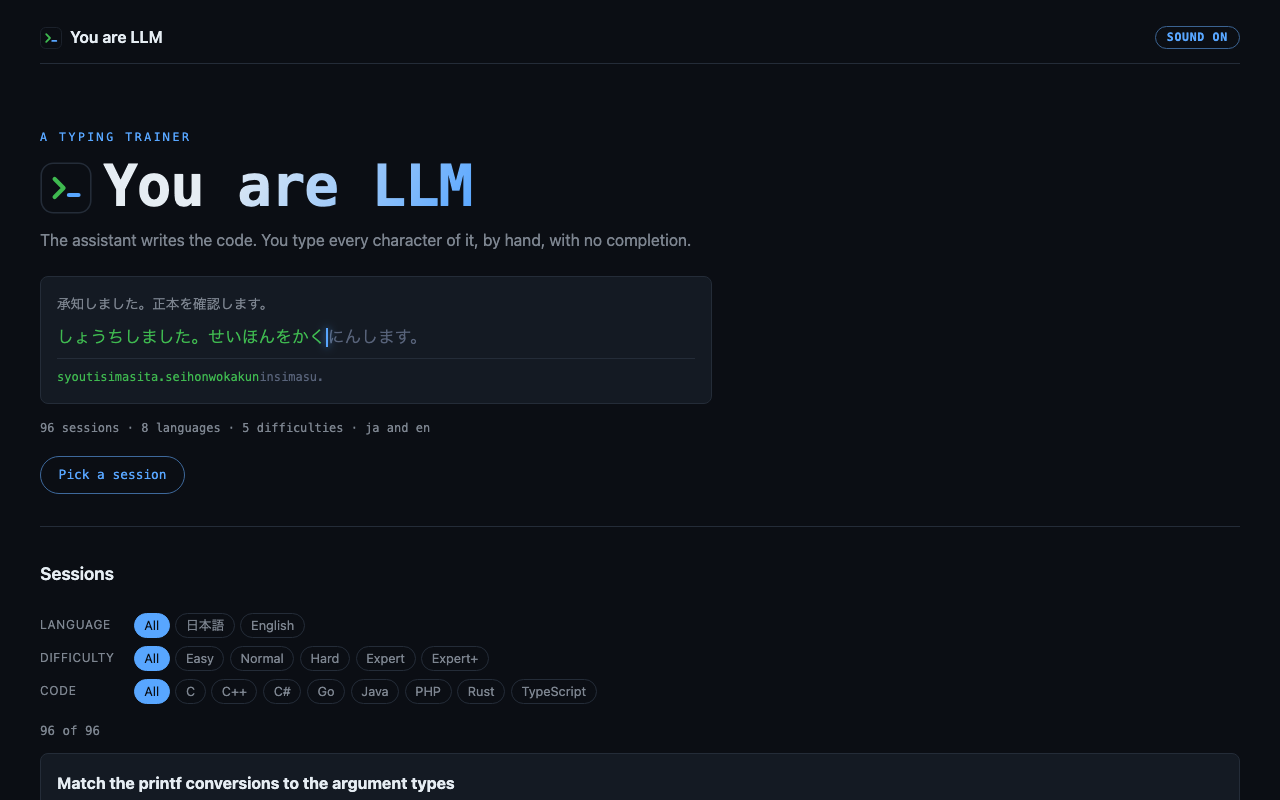
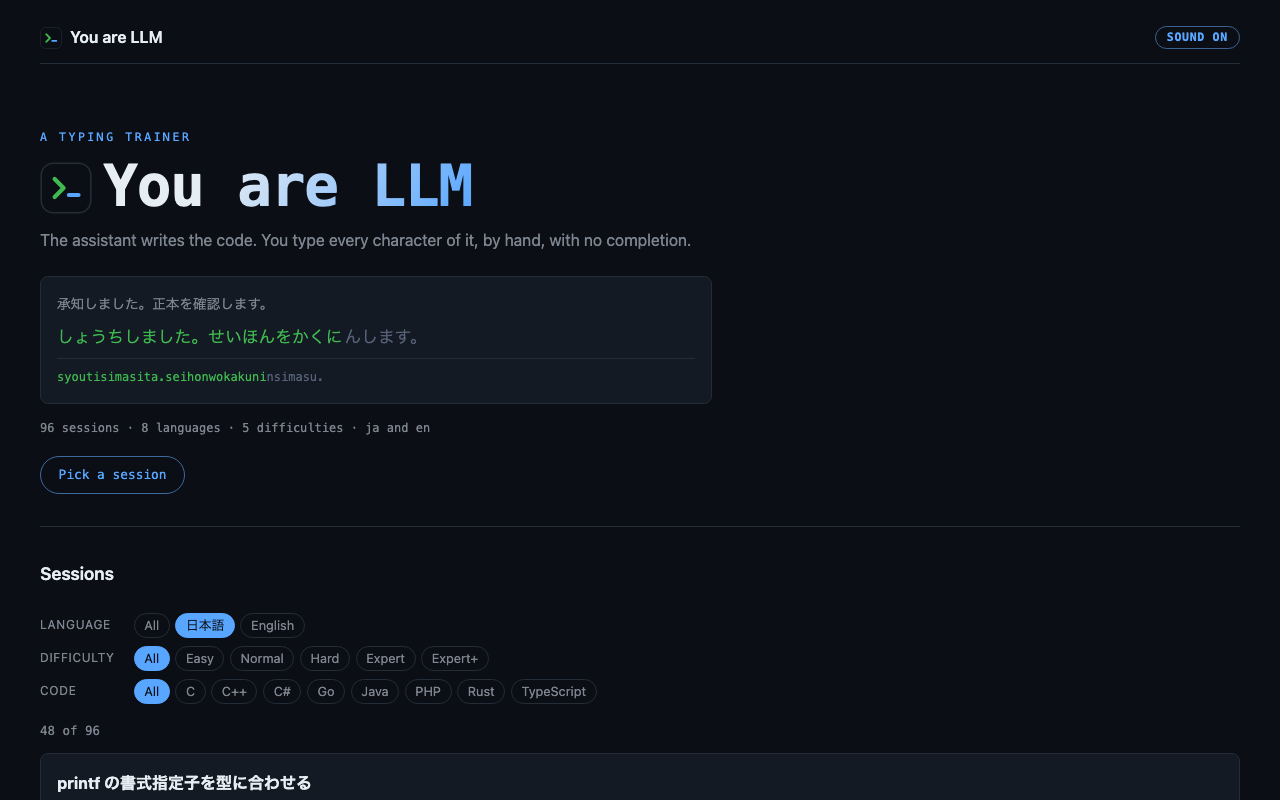
Open the list on Japanese
Most of the material is Japanese, and most of the people it is for read it, so
the list now starts there rather than showing everything twice over.

Showing both is a choice, so `All` says so in the address. An empty search is
Japanese, which keeps the plain link the useful one.

The filtering moved out of the route while it was being changed, into
`src/materials/filters.ts` where it can be tested. It is.

Claude-Session: https://claude.ai/code/session_01A8jaHEoZZhxCKJa5Ei99bX

Changed region(s): [[0.0312, 0.9688, 0.375, 1.0], [0.0938, 0.75, 0.1875, 0.8125], [0.25, 0.4062, 0.2812, 0.4375]]

diff --git a/src/routes/index.tsx b/src/routes/index.tsx
@@ -1,48 +1,16 @@
 import { Link, createFileRoute } from '@tanstack/react-router'
-import type { CodeLanguage, Difficulty, Language, Session } from '../materials'
-import {
-  CODE_LANGUAGE_LABELS,
-  DIFFICULTY_LABELS,
-  isCodeLanguage,
-  isDifficulty,
-  isLanguage,
-  sessions,
-} from '../materials'
+import type { Language } from '../materials'
+import { ANY, CODE_LANGUAGE_LABELS, DIFFICULTY_LABELS, filtersFrom, matches, sessions } from '../materials'
 import { Demo } from '../typing/Demo'
 import { Logo } from '../ui/Logo'
 import { toSteps } from '../typing/steps'
 
-export interface Filters {
-  // Optional on purpose: every link to this route may leave the search empty.
-  readonly lang?: Language | undefined
-  readonly difficulty?: Difficulty | undefined
-  readonly code?: CodeLanguage | undefined
-}
-
-function pick<T extends string>(
-  value: unknown,
-  guard: (candidate: string) => candidate is T,
-): T | undefined {
-  return typeof value === 'string' && guard(value) ? value : undefined
-}
-
 export const Route = createFileRoute('/')({
-  validateSearch: (search: Record<string, unknown>): Filters => ({
-    lang: pick(search.lang, isLanguage),
-    difficulty: pick(search.difficulty, isDifficulty),
-    code: pick(search.code, isCodeLanguage),
-  }),
+  validateSearch: filtersFrom,
   component: SessionList,
 })
 
 const LANGUAGE_LABELS: Readonly<Record<Language, string>> = { ja: '日本語', en: 'English' }
-
-function matches(session: Session, filters: Filters): boolean {
-  if (filters.lang !== undefined && session.language !== filters.lang) return false
-  if (filters.difficulty !== undefined && session.difficulty !== filters.difficulty) return false
-  if (filters.code !== undefined && session.codeLanguage !== filters.code) return false
-  return true
-}
 
 /* The one line the front page has to land. */
 const DEMO_BODY = '承知しました。正本を確認します。'
@@ -85,7 +53,13 @@ function SessionList() {
       </h2>
 
       <div className="filters">
-        <FilterRow label="Language" current={filters.lang} name="lang" options={LANGUAGE_LABELS} />
+        <FilterRow
+          label="Language"
+          current={filters.lang}
+          name="lang"
+          options={LANGUAGE_LABELS}
+          anyValue={ANY}
+        />
         <FilterRow
           label="Difficulty"
           current={filters.difficulty}
@@ -128,20 +102,28 @@ function SessionList() {
 interface FilterRowProps<K extends string> {
   readonly label: string
   readonly name: 'lang' | 'difficulty' | 'code'
-  readonly current: K | undefined
+  readonly current: K | typeof ANY | undefined
   readonly options: Readonly<Record<K, string>>
+  /** What "All" puts in the address. Language needs a word, because empty means Japanese. */
+  readonly anyValue?: typeof ANY | undefined
 }
 
-function FilterRow<K extends string>({ label, name, current, options }: FilterRowProps<K>) {
+function FilterRow<K extends string>({
+  label,
+  name,
+  current,
+  options,
+  anyValue,
+}: FilterRowProps<K>) {
   const entries = Object.entries<string>(options)
   return (
     <div className="filter-row">
       <span className="filter-label">{label}</span>
       <Link
         to="/"
-        search={(prev) => ({ ...prev, [name]: undefined })}
+        search={(prev) => ({ ...prev, [name]: anyValue })}
         className="chip"
-        data-on={current === undefined}
+        data-on={current === anyValue}
       >
         All
       </Link>

diff --git a/src/materials/filters.test.ts b/src/materials/filters.test.ts
@@ -1,0 +1,42 @@
+import { describe, expect, it } from 'vitest'
+import { ANY, filtersFrom, matches } from './filters'
+import { sessions } from './index'
+
+describe('filtersFrom', () => {
+  it('opens on Japanese when the address says nothing', () => {
+    expect(filtersFrom({}).lang).toBe('ja')
+  })
+
+  it('takes both only when the address asks for both', () => {
+    expect(filtersFrom({ lang: ANY }).lang).toBe(ANY)
+  })
+
+  it('ignores a language it does not know', () => {
+    expect(filtersFrom({ lang: 'fr' }).lang).toBe('ja')
+  })
+
+  it('leaves the other two off until they are named', () => {
+    expect(filtersFrom({}).difficulty).toBeUndefined()
+    expect(filtersFrom({ difficulty: 'expertplus' }).difficulty).toBe('expertplus')
+    expect(filtersFrom({ code: 'nope' }).code).toBeUndefined()
+  })
+})
+
+describe('matches', () => {
+  it('shows half the set by default, which is the Japanese half', () => {
+    const shown = sessions.filter((session) => matches(session, filtersFrom({})))
+    expect(shown.length).toBe(sessions.length / 2)
+    expect(shown.every((session) => session.language === 'ja')).toBe(true)
+  })
+
+  it('shows all of it when asked', () => {
+    const shown = sessions.filter((session) => matches(session, filtersFrom({ lang: ANY })))
+    expect(shown.length).toBe(sessions.length)
+  })
+
+  it('narrows on every axis at once', () => {
+    const filters = filtersFrom({ lang: 'en', difficulty: 'expertplus', code: 'rust' })
+    const shown = sessions.filter((session) => matches(session, filters))
+    expect(shown.map((session) => session.id)).toEqual(['tx-callback-rust-en'])
+  })
+})

diff --git a/src/materials/filters.ts b/src/materials/filters.ts
@@ -1,0 +1,42 @@
+import { isCodeLanguage, isDifficulty, isLanguage } from './parse'
+import type { CodeLanguage, Difficulty, Language, Session } from './types'
+
+/** What the list shows when a filter is off. Language says it out loud. */
+export const ANY = 'all'
+
+export interface Filters {
+  // Optional on purpose: every link to the list may leave the search empty.
+  readonly lang?: Language | typeof ANY | undefined
+  readonly difficulty?: Difficulty | undefined
+  readonly code?: CodeLanguage | undefined
+}
+
+function pick<T extends string>(
+  value: unknown,
+  guard: (candidate: string) => candidate is T,
+): T | undefined {
+  return typeof value === 'string' && guard(value) ? value : undefined
+}
+
+/**
+ * The list opens on Japanese, because that is what most of it is for. Showing
+ * both is a choice the reader makes, so it is spelled out in the address rather
+ * than being what an empty one happens to mean.
+ */
+export function filtersFrom(search: Record<string, unknown>): Filters {
+  const lang = search.lang
+  return {
+    lang: lang === ANY ? ANY : (pick(lang, isLanguage) ?? 'ja'),
+    difficulty: pick(search.difficulty, isDifficulty),
+    code: pick(search.code, isCodeLanguage),
+  }
+}
+
+export function matches(session: Session, filters: Filters): boolean {
+  if (filters.lang !== ANY && filters.lang !== undefined && session.language !== filters.lang) {
+    return false
+  }
+  if (filters.difficulty !== undefined && session.difficulty !== filters.difficulty) return false
+  if (filters.code !== undefined && session.codeLanguage !== filters.code) return false
+  return true
+}

diff --git a/src/materials/index.ts b/src/materials/index.ts
@@ -26,6 +26,8 @@ export function findSession(id: string): Session | undefined {
   return sessions.find((session) => session.id === id)
 }
 
+export { ANY, filtersFrom, matches } from './filters'
+export type { Filters } from './filters'
 export {
   MaterialError,
   isCodeLanguage,

diff --git a/README.md b/README.md
@@ -154,7 +154,9 @@ Length counts symbol keystrokes rather than all of them. A session is not harder
 No Rust session comes out below Hard, and no Java one comes out above it. The only Expert+ session
 is the Rust `transaction` that takes a closure.
 
-The front page filters on all three, and a filtered view is a shareable URL.
+The front page filters on all three, and a filtered view is a shareable URL. It opens on Japanese,
+because that is what most of the material is for. `All` shows both languages and says so in the
+address.
 
 ![The front page, with a line typing itself and the session list filtered by three axes](docs/screen-intro.png)
 
